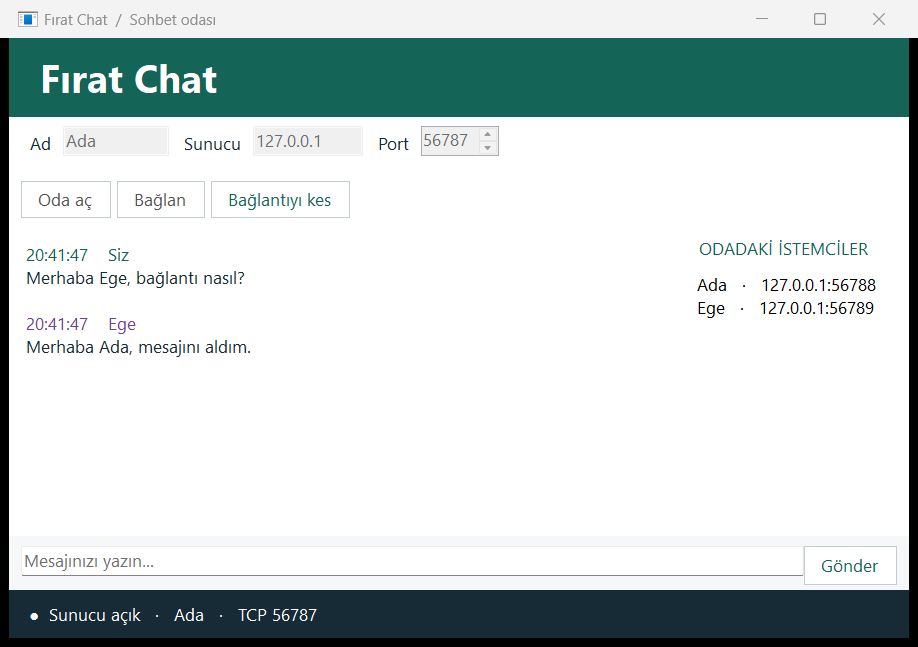
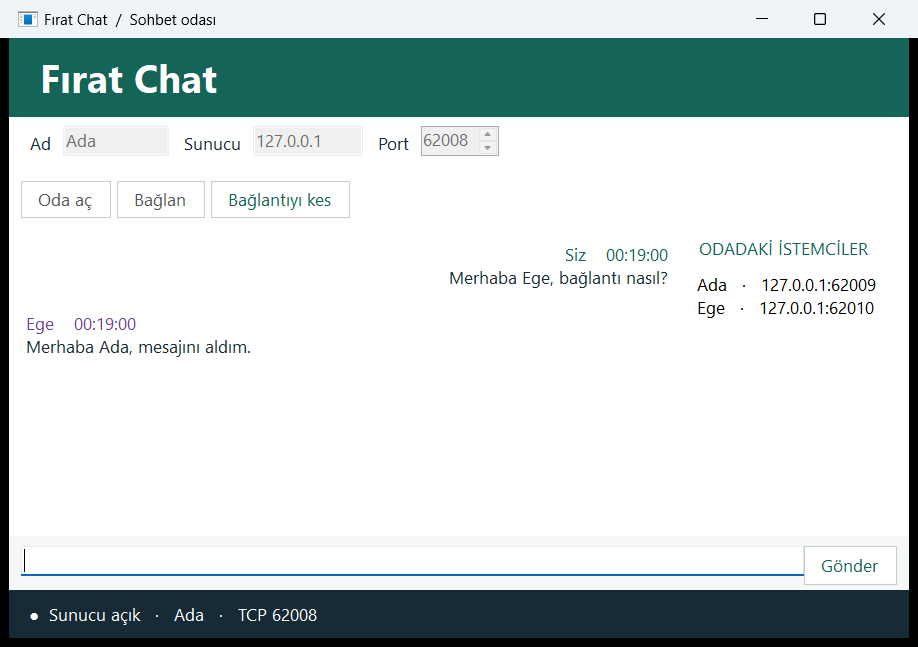
Yeni kullanım adımlarını ve güncel pencere görüntülerini belgele

diff --git a/README.md b/README.md
@@ -29,6 +29,8 @@ Visual Studio'da .NET 10 destekli bir sürüm ve **.NET masaüstü geliştirme**
 3. Metni yazıp **Gönder** veya Enter’a basın. Kendi iletileriniz “Siz”, diğerleri gönderenin adı ve farklı renkle görünür. İstemci adları ve bağlantı uçları sunucuda listelenir.
 4. **Bağlantıyı kes** ile ayrılıp tekrar katılabilirsiniz. Sunucu penceresinde bağlantıyı kesmek odayı kapatır.
 
+Kendi mesajlarınız sağa, karşı tarafınkiler sola hizalanır. Katılımcı paneli sunucu penceresinde görünür. Bir mesaj gönderilirken yazılan yeni taslak korunur.
+
 ## Sınıflar ve sorumluluklar
 
 `ChatServer` bağlantıları kabul eder ve mesajları diğer istemcilere iletir. `Peer` satır tabanlı JSON paketlerini okur ve eşzamanlı yazmaları sıralar. `ChatClient` katılım, gönderme ve bağlantının kapanmasını yönetir. `MainForm` ağ olaylarını Windows arayüz iş parçacığına aktarır.
